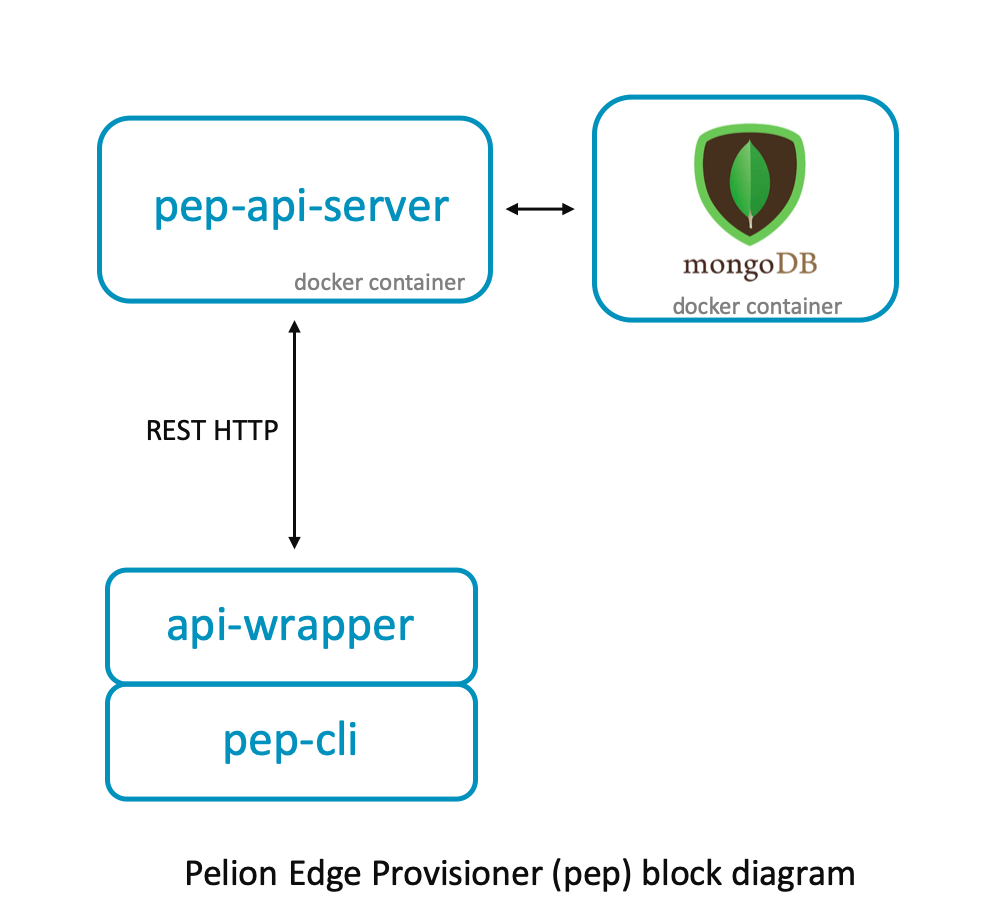
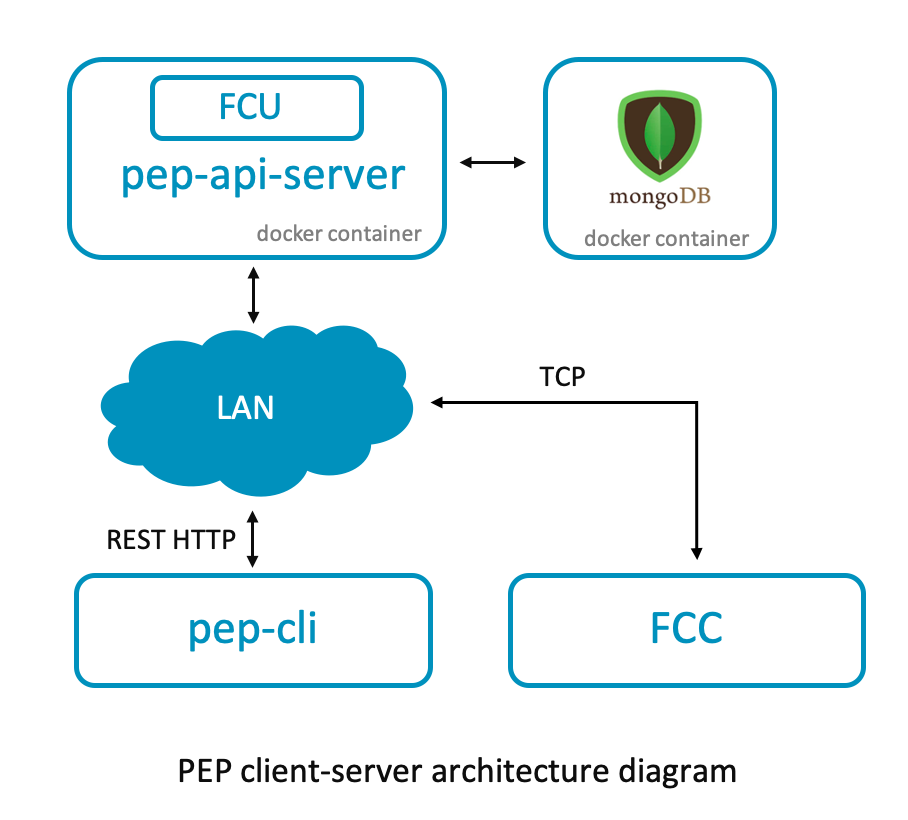
Updated README as per the requested changes

Changed region(s): [[0.0617, 0.061, 0.9559, 0.8841], [0.185, 0.9146, 0.8634, 0.9756], [0.8943, 0.122, 0.9251, 0.3354]]

diff --git a/README.md b/README.md
@@ -1,74 +1,134 @@
 # pelion-edge-provisioner (pep)
 
-The Pelion Edge provisioning tool provisions the gateway, so Pelion Edge can successfully and securely communicate with the cloud. This tool hosts REST APIs and a mongo database, which helps create and store gateway identities. The tool is designed to run on the factory floor, and it provisions the gateways in production mode.
+If you are looking to automate the Pelion Device Management (PDM) provisiong flow then this is the tool for you. It provisions the gateways in production mode by injecting the identity certificates and configuration information over IP. The automation is possible because of the following features of this tool -
 
-<img src="./assets/pep-arch.png" width="650" height="550"/>
+- Certificate injection initiation from gateway and not from [Factory Configurator Utility (FCU)](https://www.pelion.com/docs/device-management/current/provisioning-process/index.html).
+- Record the enrollment identity and configuration information of all the provisioned gateways.
+
+A typical use case is to make it part of the factory process to automate the provisioning of gateways coming off of the factory line. Internally, it is used by the engineering teams to iteratively test the Pelion Edge firmware in production mode without the need for developers to setup seperate or individual FCUs. It is also used by QA teams to automate the regression testing and CI workflows.
+
+Follow [this](https://www.pelion.com/docs/device-management/current/provisioning-process/index.html) link to know more about the default Pelion Device Management provisioning process.
+
+## Architecture
+
+Typically the default gateway provisioning flow is for FCU (running outside the gateway) to injects the credentials in the gateway over IP. The initial condition is to know the serial number and IP address of the gateway. Thus, this flow cannot be automated as it requires manual effort to read the serial number and IP address off of the gateway. Hence, the Pelion Edge provisioning tool inverts this flow by providing REST APIs which allows gateways to send its serial number and IP address to the server and request for the credentials on-demand.
+
+The server also saves the identity information and gateway configurations in the database which can later be downloaded by customer or uploaded to a server for inventory management or to prime the system for first-to-claim process.
+
+The server is a multi-container Docker application with two services -
+
+1. pep-api-server - is a node.js based RESTful web service which exposes APIs consumed by the client - [pep-cli](#cli). The API documentation can be found [here](./docs/api-swagger-doc.yml). This service internally interacts with FCU and leverages the [ft-demo tool](https://www.pelion.com/docs/device-management-provision/latest/ft-demo/index.html), which provides the IP interface to inject the certificates in the gateway. Thus the precursor to building the Docker image is to successfully download the factory_configurator_utility archive file from PDM Portal and configure it according to your use case. The details of that can be found in the [Prerequisite section](#prerequisite). To know more about the Docker image the instructions used to assemble it are stated in this [Dockerfile](./Dockerfile).
+
+1. mongo - is a service which deploys an instance of MongoDB. The database is used for recordkeeping, it stores the non-sensitive information of the gateway such as gateway's serial number and its configuration parameter values. Once the gateway is provisioned successfully in first-to-claim mode, it also stores the enrollment identity which is the fingerprint of the device certificate of the gateway but it never stores the device certificate itself. The stored information can be exported into CSV format using [pep-cli](#cli) which can be used by the customer for inventory managment or when using [first-to-claim process](https://www.pelion.com/docs/device-management/current/connecting/device-ownership-first-to-claim-by-enrollment-list.html), it can be uploaded to the Portal using [Bulk upload feature](https://portal.mbedcloud.com/devices/enrollment/new).
+
+Docker's [compose](https://docs.docker.com/compose/) tool is used to configure and define the above service containers. It creates -
+- a default `bridge` network which setup for containers to communicate with each other.
+- a docker volume `mongo_data` is created to persistently store the mongo data.
+
+The versions of various services used in the docker-compose are listed in the environment file `.env`
+
+<p align="center"><img src="./assets/pep-arch.png" width="454" height="410"/></p>
+
+## Current limitations
+- Cannot provision the gateways in development mode.
+- Do not support injection of identity certificates and configuration information over serial.
+- Setting of `device-key-generation-mode` parameter to `externally_supplied` in fcu.yml is not supported.
+- Setting of `first-to-claim` parameter to `false` in fcu.yml is not supported.
+- Auto discovery of the IP address of the machine running pep-api-server.
+
+## Setup requirements
+The server can run on any Docker supported platform and client on any Pelion Edge supported platforms. Both the machines should have an IP address and connected to the same LAN network. Further, server machine should allow inbound and outbound HTTP traffic on port 5151 and also TCP traffic on the port used by Factory Configurator Client (FCC) which is running on the client machine.
+
+Note: We recommend that you install the server on a secure machine or in a secure room or both in order to protect the device keys and certificates. You should setup production flow in accordance with good security practices and use secure processes and Hardware Security Module (HSM) hardware when possible.
 
 ## Prerequisite
 
-This tools wraps [Factory Configurator Utility (FCU)](https://www.pelion.com/docs/device-management/current/provisioning-process/index.html). To install this tool, the following files are required:
+To build the `pep-api-server` docker image, the following files are required:
 
 1. factory_configurator_utility.zip
 
-   Arm licenses FCU to Device Management customers that manufacture connected devices. Please [contact us](https://cloud.mbed.com/contact) for more information. Authorized customers can download the tool and documentation from the [Device Management Portal](https://portal.mbedcloud.com/login).
+    Arm licenses FCU to Device Management customers that manufacture connected devices. Please [contact us](https://cloud.mbed.com/contact) for more information. Authorized customers can download the tool and documentation from the [Device Management Portal](https://portal.mbedcloud.com/login).
 
 1. fcu.yml
 
-   Follow the documentation on how to configure FCU: `factory_configurator_utility.zip/docs/provisioning-fcu/configuring-fcu.html`. You can find the default `fcu.yml` at `factory_configurator_utility.zip/config/fcu.yml`.
+    [Follow the documentation](https://www.pelion.com/docs/device-management-provision/1.2/fcu/config-fcu.html) on how to configure FCU. You can find the default `fcu.yml` in the archive file at `factory_configurator_utility.zip/config/fcu.yml`.
+
+    Example: Typically we configure `fcu.yml` with following values, everything else remains unchanged.
+
+    | Parameter     | Value      |
+    | ------------- |:----------:|
+    | use-bootstrap | true |
+    | time-sync | true |
+    | verify-on-device | true |
+    | first-to-claim | true |
+    | device-key-generation-mode | by_tool |
+    | vendor-id | 42fa7b48-1a65-43aa-890f-8c704daade54 |
+    | entropy-generation-mode | by_device |
+    | device-certificate | *fill the information as per your organization* |
+    | device-info | *fill the information as per your organization* |
 
 1. Certificate authority
 
-   To set up a certificate authority, follow the documentation: `factory_configurator_utility.zip/docs/provisioning-fcu/setting-up-a-certificate-authority.html`.
+    When your devices connect to Device Management, it needs to trust the certificate authority (CA) certificate that issued the device certificate, or one of the CAs in the device certificate chain of trust. To set up a certificate authority, follow the documentation to [create your own CA](https://www.pelion.com/docs/device-management-provision/1.2/fcu/using-CA.html#creating-a-ca-certificate). You can also setup [FCU as a CA](https://www.pelion.com/docs/device-management-provision/1.2/fcu/fcu-ca.html) but that requires you to manually install the FCU and invoke the `setup` API. As installation of FCU is automated in the Docker build process, we recommend you to use the above document to generate your own CA. Place the generated private key - `CA_private.pem` and certificate - `CA_cert.pem` in the folder called `keystore` as shown in the following step.
 
-1. Firmware update certificate
+    Caution: The OpenSSL commands in the docs are for reference only. You must adapt the commands to your own production setup and security requirements.
 
-   Note: This step is optional unless firmware update capability is required.
+    Note: As you are creating your own certificate authority, do not populate the X.509 properties in the `certificate-authority`section of the fcu.yml configuration file.
 
-   Follow the ["Create an authentication certificate" section of the Device Management documentation](https://www.pelion.com/docs/device-management/current/updating-firmware/setting-up.html#create-an-authentication-certificate) to create a firmware update certificate.
+    **Upload the CA certificate** - You have to upload this CA certificate to Device Management to allow it to trust the device certificates signed by this CA and then connection to Device Management. Follow [this document](https://www.pelion.com/docs/device-management/current/provisioning-process/managing-ca-certificates.html) to learn about the various ways you can achieve this and also how to manage the lifecycle of the CAs.
 
-1. Place all of the above files in a folder in this structure. Note: Place this folder in this repository directory because the contents of this repository are copied to the Docker container.
+1. Firmware update authentication certificate (optional)
+
+    This step is optional unless firmware update capability is required. [Follow the documentation](https://www.pelion.com/docs/device-management/current/updating-firmware/update-auth-cert.html) to create a firmware update authentication certificate.
+
+    You can use the [manifest tool](https://github.com/ARMmbed/manifest-tool) to generate the authentication certificate. This enables you to quickly and easily develop the firmware updates for your gateway. These certificates generated above are not suitable for production environments. Only use them for testing and development.
+
+    For example, generally in developer flow we run this command to generate the update certificate -
+
+    ```
+    manifest-tool init -m "<product model identifier>" -V 42fa7b48-1a65-43aa-890f-8c704daade54 -q
+    ```
+    You can find the DER formatted update certificate at location  `manifest-tool/.update-certificates/default.der`. Rename it to `update-auth-certificate.der` and place it in the folder mentioned in the next step.
+
+    Note: To unlock the rich node features, such as gateway logs and the gateway terminal in the Pelion web Portal, pass the command-line parameter -V 42fa7b48-1a65-43aa-890f-8c704daade54 to the manifest tool. Contact the service continuity team at Arm to request they enable Edge gateway features in your Pelion web Portal account. By default, the features are not enabled.
+
+1. Place all of the above files in a folder in this structure.
+
+    Note: Place this folder in the root directory of the repository in order for the contents to be copied to the Docker container.
 
     ```
     ./fcu_config_dir
     --- fcu.yml
     --- factory_configurator_utility.zip
     --- update-auth-certificate.der
-    --- ca
+    --- keystore
     --- --- private_key.pem
     --- --- ca.crt
     ```
 
 Manually run the validator `./fcu-config-validator.sh` on fcu_config_dir to verify respective files are in the above structure.
 
-## Installation
+## Install server using Docker
 
-### Install using Docker
+Use `docker-compose` to build and run the containers.
 
-Use docker-compose to deploy pep-api-server and mongodb. Pep-api-server image is based on the `ubuntu:bionic` and installs node v10.18.0 and python3.6 dependencies.
-
-The versions of various services used in the docker-compose are listed in the environment file `.env`
-
-For persistent data, docker volume `mongo_data` is created.
-
-#### Build
+### Build
 
 These docker-compose commands have been tested with docker-compose version 1.25.0
 
 ```
-$ docker-compose build --build-arg fcu_config=<fcu_config_relative_dir_path>
+docker-compose build --build-arg fcu_config=<fcu_config_relative_dir_path>
 ```
 
-This also installs the factory_configuration_utility in api-server image. Install steps used in this process are parallely followed as listed in the official FCU documentation at `factory_configurator_utility.zip/docs/provisioning-fcu/index.html`.
-
-#### Run
+### Run
 
 ```
 docker-compose up -d
 ```
 
-#### Verify
+### Verify
 
-Verify mongo and api-server containers are running:
+Verify mongo and pep-api-server containers are running:
 
 ```
 docker-compose ps
@@ -94,79 +154,147 @@ docker volume inspect pelion-edge-provisioner_mongo_data
 
 ## CLI
 
-### Install
+`pep-cli` is a command line tool which interacts with the pep-api-server using cURL. To test you can run it on the same machine as the server but in production, it runs on the Pelion Edge supported platforms. The supported commands are detailed in the [commmands](#commands) sections.
 
-This creates a symlink in the global node_modules folder:
-
+Clone this repository on your gateway -
 ```
-npm link
-```
-
-Run:
-
-```
-pep --help
+git clone https://github.com/armPelionEdge/pelion-edge-provisioner
 ```
 
-#### Alternatively
+Install the pep-cli to `/usr/local/bin` by creating a symlink -
 
 ```
-npm install
+cd pelion-edge-provisioner
+ln -s `pwd`/cli/bash/pep.sh /usr/local/bin/pep
+pep-cli --help
 ```
 
-Run:
+Note: Make sure `/usr/local/bin` is already in your PATH. To verify run `echo $PATH`. If not, then please add it.
+
+Alternatively, goto -
 
 ```
-./cli/pep.js --help
+cd cli/bash
+./pep-cli.sh --help
 ```
 
-Enable debug mode:
+To enable debug mode -
 
 ```
-DEBUG=* pep --help
+DEBUG=* pep-cli --help
 ```
 
-If you are runnning pep CLI on a different machine than the pep-api-server docker container, change PEP_SERVER_URL:
+When you run the cli on the gateway, you can provide the PEP_SERVER_URL as an env variable -
 
 ```
-PEP_SERVER_URL=http://<api-server-ip-address>:5151 pep --help
+PEP_SERVER_URL=http://<api-server-ip-address>:5151 pep-cli --help
 ```
 
-## Typical gateway provision flow
+### Commands
 
-1. Run factory-configurator-client-example on the gateway
+1. get-one-identity - This command requests `pep-api-server` to create a new identity based on the passed parameters. The prerequisite is to run FCC first. The steps on how to install and run FCC are documented in the next section.
 
-    Cross-compile latest version of [fcc-example](https://github.com/ARMmbed/factory-configurator-client-example) for your gateway platform. You can find instructions to compile the fcc-example at `factory_configurator_utility.zip/docs/ft-demo/building-demo.html`.
+    In the request to the server you have to provide the gateway IP address and the port at which FCC is running so that server can then invoke FCU to inject a new device certificate in the gateway. Run `help` command to learn about the various parameters which you can pass.
 
-    Run:
-    
     ```
-    $ ./factory-configurator-client-example.elf
+    pep-cli get-one-identity --help
     ```
 
-    To change the interface name:
-    
-    ```
-    ETHERNET_LINUX_IFACE_NAME=eth0 ./factory-configurator-client-example.elf
-    ```
+    <p align="center"><img src="./assets/pep-get-one-identity.png" width="921" height="481"/></p>
 
-    To change the entropy source:
-    
+1. get-enrollment-id - Once the gateway has been injected with device certificate, you can request the server to provide the enrollment-id of the gateway so that you can upload it to the PDM account you want the gateway to be associated with.
+
     ```
-    export ENTROPYSOURCE=<file-name>
+    pep-cli get-enrollment-id --help
     ```
 
-1. Install the `pep` CLI on the gateway, and run:
-    1. `$ pep create-one-identity -s <serial_number> -w <hardware_version>`
-        <img src="./assets/pep-create-one-identity.png" width="927" height="550"/>
+## Typical production provisioning and onboarding flow
 
-    1. `$ pep get-one-identity -s <serial_number> -i <gateway_ip> -p <fcc_port>`
-        <img src="./assets/pep-get-one-identity.png" width="927" height="464"/>
+1. Install FCC - Login to the gateway. If `factory-configurator-client-example` is not installed then follow [this document](https://www.pelion.com/docs/device-management-provision/1.2/ft-demo/building-demo.html#native-linux) for the detailed steps. Here are the quick steps which installs the program withou using Mbed CLI. Note: This tool is not supported on macOS, hence if you are running the server on macOS, you will not be able to test pep-cli on the same machine.
 
-1. factory-configurator-client-example creates a `pal` folder, and get-one-identity creates `identity.json` file.
+    ```
+    git clone https://github.com/ARMmbed/factory-configurator-client-example
+    cd factory-configurator-client-example
+    git clone https://github.com/ARMmbed/mbed-cloud-client
+    cd mbed-cloud-client
+    git checkout $(cat ../mbed-cloud-client.lib | tr -s "#" "\n" | sed -n '2 p')
+    python pal-platform/pal-platform.py fullbuild --target x86_x64_NativeLinux_mbedtls --toolchain GCC --external ./../linux-config.cmake --name factory-configurator-client-example.elf
+    ```
+    Binary is located at -
+    ```
+    ./out/Release/factory-configurator-client-example.elf
+    ```
 
-    1. Place and rename the `pal` folder to the location specified by compile time flag `PAL_FS_MOUNT_POINT_PRIMARY` of mbed-edge.
-    1. Place `identity.json` to the location specified by platform_readers/identity_path of maestro configuration file.
+1. Prepare - stop edge-core and clear out the old provisioning files. For example, if you are running [meta-pelion-edge](https://github.com/armPelionEdge/meta-pelion-edge) on RPi 3B+, you have run the following commands -
+
+    ```
+    systemctl stop edge-core
+    rm -rf /userdata/mbed/mcc_config
+    rm -rf /userdata/edge_gw_config
+    ```
+
+    or run this script -
+
+    ```
+    ./prepare-for-new-identity.sh
+    ```
+
+    You will have to modify the commands or the scripts for your platform.
+
+1. Run FCC - On the gateway, run this command
+
+    ```
+    ./factory-configurator-client-example.elf
+    ```
+
+    By default the interface is `eth0`, if required you can change the interface name -
+
+    ```
+    ETHERNET_LINUX_IFACE_NAME=wlan0 ./factory-configurator-client-example.elf
+    ```
+
+    If required, you can change the entropy source -
+
+    ```
+    export ENTROPYSOURCE=/dev/urandom
+    ```
+
+    Note down the TCP port of FCC, you will use it in the next step.
+
+1. Fetch new identity - Open another terminal and login to the gateway. Install the `pep-cli` if not already and then run the following command. At minimum you have to pass in the serial number of the gateway, the IP address of the gateway and the TCP port at which FCC is running. Note: There is no schema enforced on the `serial_number`, hence it can be of any length with any alphanumeric and special characters. But it has to be unique, server will not provision 2 gateways with the same serial number.
+
+    ```
+    pep-cli get-one-identity -s <serial_number> -i <gateway_ip> -p <fcc_port>
+    ```
+
+1. Install new identity - Once the above command runs successfully, the factory-configurator-client-example creates a `pal` folder, and pep-cli creates `identity.json` file.
+
+    1. Place and rename the `pal` folder to the location specified by the compile time flag `PAL_FS_MOUNT_POINT_PRIMARY` of mbed-edge. By default, its defined by [this CMake flag](https://github.com/ARMmbed/mbed-edge/blob/master/cmake/targets/default.cmake#L7) in mbed-edge project. The [meta-pelion-edge](https://github.com/armPelionEdge/meta-pelion-edge) project overwrites that to [this](https://github.com/armPelionEdge/meta-pelion-edge/blob/master/recipes-wigwag/mbed-edge-core/files/rpi3/target.cmake#L8) and snap-pelion-edge to [this](https://github.com/armPelionEdge/snap-pelion-edge/blob/master/files/edge-core/cmake/target.cmake#L6).
+
+    Note: Before copying to that location make sure the folder is not present. If edge-core is running in the background then it creates this folder if it is not present. Thus, stop edge-core and clear out that folder before copying the `pal` folder.
+
+    1. Place the `identity.json` to the location specified by `platform_readers/params/identity_path` of maestro configuration file. In meta-pelion-edge, its placed at [this location](https://github.com/armPelionEdge/meta-pelion-edge/blob/master/recipes-wigwag/maestro/maestro/rpi3/maestro-config-rpi3bplus.yaml#L27) and for snap-pelion-edge at [this](https://github.com/armPelionEdge/edge-utils/blob/master/conf/maestro-conf/edge-config-dell5000-demo.yaml#L16).
+
+    For example, the same steps are listed in this script for meta-pelion-edge project. You can modify this script for your platform.
+
+    ```
+    ./install-new-identity.sh
+    ```
+
+1. Upload CA - If not already, make sure the CA which was generated in the [Prerequisite section](#prerequisite) has been uploaded to the Device Management.
+
+1. Upload enrollment identity - To retrieve the enrollment-id of this gateway, send request to pep-api-server.
+
+    ```
+    pep-cli get-one-identity -s <serial_number>
+    ```
+
+    Upload the the enrollment identity to Device Management by following [this documentation](https://www.pelion.com/docs/device-management/current/connecting/device-ownership-first-to-claim-by-enrollment-list.html)
+
+1. Connect to PDM - Reboot the gateway and verify if it is connected to Device Management. For example, on meta-pelion-edge you can run this command to know the status of edge-core -
+    ```
+    curl localhost:9101/status
+    ```
 
 ## Troubleshooting
 
@@ -185,20 +313,10 @@ PEP_SERVER_URL=http://<api-server-ip-address>:5151 pep --help
 
 1. If Arm Mbed CLI is not installed, follow these [instructions](https://os.mbed.com/docs/mbed-os/latest/tutorials/quick-start-offline.html)
 
-1. To install factory-configurator-client-example on the gateway without Mbed CLI:
-
-    ```
-    $ git clone https://github.com/ARMmbed/factory-configurator-client-example
-    $ cd factory-configurator-client-example
-    $ git clone https://github.com/ARMmbed/mbed-cloud-client
-    $ cd mbed-cloud-client
-    $ git checkout <SHA_found_in_mbed-cloud-client.lib>
-    $ python pal-platform/pal-platform.py fullbuild --target x86_x64_NativeLinux_mbedtls --toolchain GCC --external ./../linux-config.cmake --name factory-configurator-client-example.elf
-    $ ./out/Release/factory-configurator-client-example.elf
-    ```
-
 1. If you get `bad-request` error on mbed-edge, then mbed-edge and factory-configurator-client-example have been compiled with different entropy source.
 
-1. If you get `Connection error` on mbed-edge, make sure enrollment_id is uploaded successfully on Pelion cloud and that the CA certificate is uploaded.
-    1. You can find steps on how to upload Certificate using Device Management Portal in the [Device Management documentation](https://www.pelion.com/docs/device-management/current/provisioning-process/managing-ca-certificates.html)
-    1. You can find steps on how to upload the enrollment identity in the [Device Management documentation](https://www.pelion.com/docs/device-management/current/connecting/device-ownership-first-to-claim-by-enrollment-list.html)
+1. If you get `Connection error` on mbed-edge, then make sure the enrollment identity and the CA certificate has been uploaded successfully to your PDM account.
+
+## License
+
+[Apache License 2.0](LICENSE)
